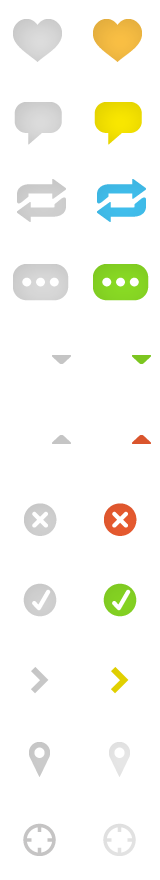
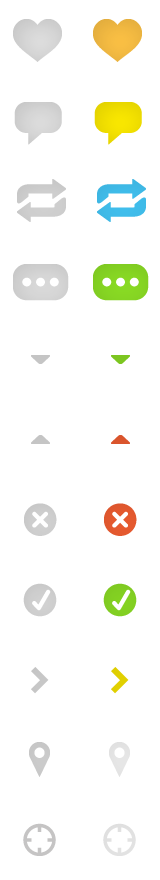
fix spinner positioning for 'show all' element

diff --git a/theme/snapr/css/main.css b/theme/snapr/css/main.css
@@ -2792,8 +2792,24 @@ a.ui-link-inherit {
   -webkit-animation-iteration-count: infinite;
   -webkit-animation-timing-function: linear;
 }
+.image-streams .image-stream .x-no-more .x-right-pull {
+  /* turns 'the end' into big full stop.. */
+
+}
 .image-streams .image-stream .x-no-more .x-right-pull .ui-icon-refresh {
   display: none;
+}
+.image-streams .image-stream .x-no-more .x-right-pull .x-msg {
+  background-color: rgba(0, 0, 0, 0.12);
+  padding: 36px 0;
+  width: 84px;
+  -moz-border-radius: 44px;
+  -webkit-border-radius: 44px;
+  border-radius: 44px;
+  color: white;
+  height: 12px;
+  vertical-align: middle;
+  margin-left: 10px;
 }
 .image-streams .image-stream .edit-overlay {
   display: none;
@@ -4044,13 +4060,14 @@ a.ui-link-inherit {
   padding: 0 36px 0 10px;
 }
 .image-item-block .image-actions .reactions-button .ui-icon {
-  background-position: 0 -160px;
+  background-position: 0px -160px;
+  right: 0;
 }
 .image-item-block .image-actions .reactions-button.ui-btn-down-d .ui-icon, .image-item-block .image-actions .reactions-button.ui-btn-hover-d .ui-icon, .image-item-block .image-actions .reactions-button.ui-btn-active-d .ui-icon {
   background-position: -40px -160px;
 }
 .image-item-block .image-actions .reactions-button.selected .ui-icon {
-  background-position: 0 -200px;
+  background-position: 0px -200px;
 }
 .image-item-block .image-actions .reactions-button.selected.ui-btn-down-d .ui-icon, .image-item-block .image-actions .reactions-button.selected.ui-btn-hover-d .ui-icon, .image-item-block .image-actions .reactions-button.selected.ui-btn-active-d .ui-icon {
   background-position: -40px -200px;
@@ -4556,7 +4573,7 @@ a.ui-link-inherit {
 .share-photo .image-controls .ui-icon {
   top: -1px;
   margin-top: 0;
-  right: 10px;
+  right: 0;
   width: 40px;
   height: 40px;
   background-image: url('../gfx/action-icons-custom.png');

diff --git a/theme/snapr/css/pages.less b/theme/snapr/css/pages.less
@@ -455,24 +455,25 @@
                 padding: 0 36px 0 10px;
            }
             .ui-icon{
-                background-position: 0 -160px;
+                background-position: @as-offset-x @gfx-action-icon-sprite-toggle-y;
+                right: 0;
             }
             &.ui-btn-down-d,
             &.ui-btn-hover-d,
             &.ui-btn-active-d{
                 .ui-icon{
-                background-position: -40px -160px;
+                background-position: @as-offset-x-hover @gfx-action-icon-sprite-toggle-y;
                 }
             }
             &.selected{
             .ui-icon{
-                background-position: 0 -200px;
+                background-position: @as-offset-x @gfx-action-icon-sprite-toggle-up-y;
             }
             &.ui-btn-down-d,
             &.ui-btn-hover-d,
             &.ui-btn-active-d{
                     .ui-icon{
-                    background-position: -40px -200px;
+                    background-position: @as-offset-x-hover @gfx-action-icon-sprite-toggle-up-y;
                     }
                 }
             }
@@ -974,7 +975,7 @@
         .ui-icon{
             top: -1px;
             margin-top: 0;
-            right: 10px;
+            right: 0;
             width: @gfx-action-icon-sprite-grid;
             height: @gfx-action-icon-sprite-grid;
             background-image: url('../gfx/action-icons-custom.png');

diff --git a/index.html b/index.html
@@ -644,7 +644,7 @@
 
     <!-- @connect -->
     <div id="connect" data-role="page" data-ajax="false">
-        <div data-role="header">
+        <div data-role="header" data-theme="c">
             <h1>Connect</h1>
             <a href="#/" data-role="button" data-icon="delete" data-iconpos="notext"></a>
         </div>
